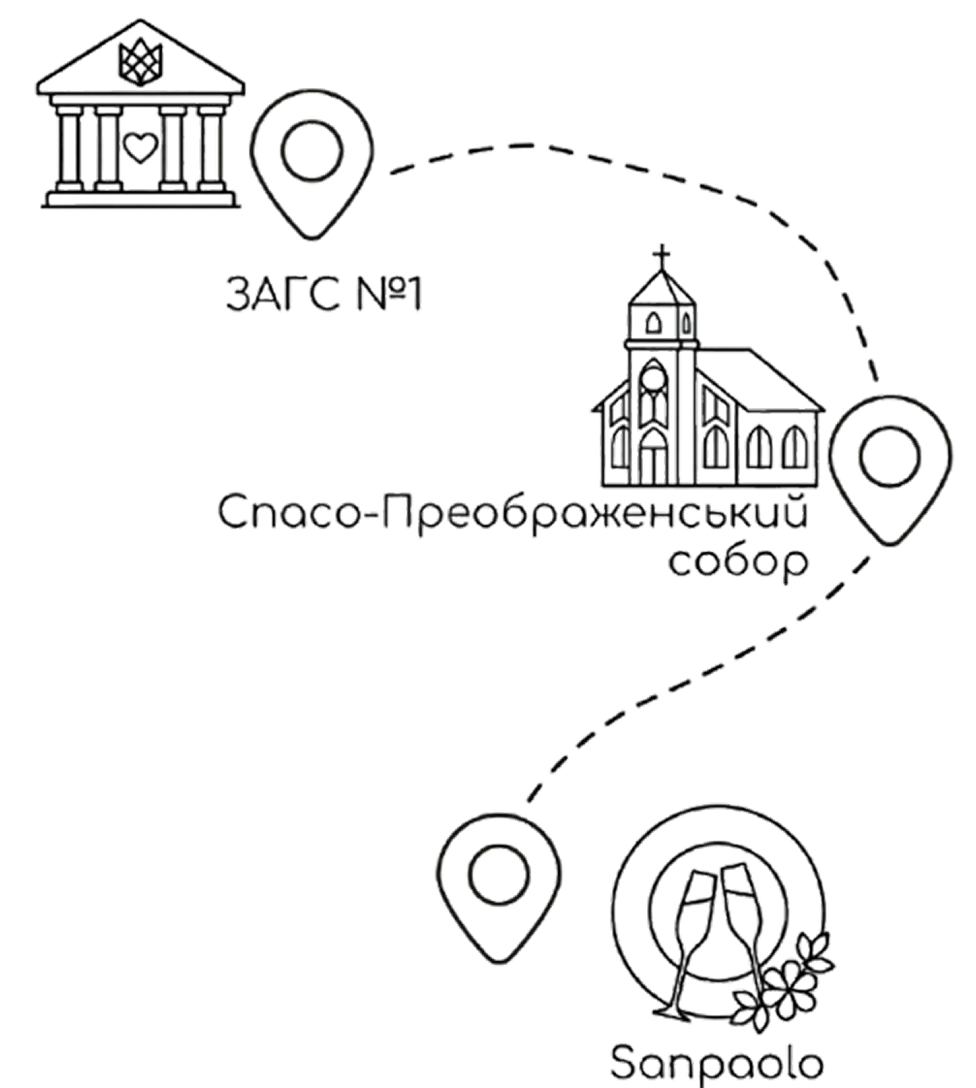
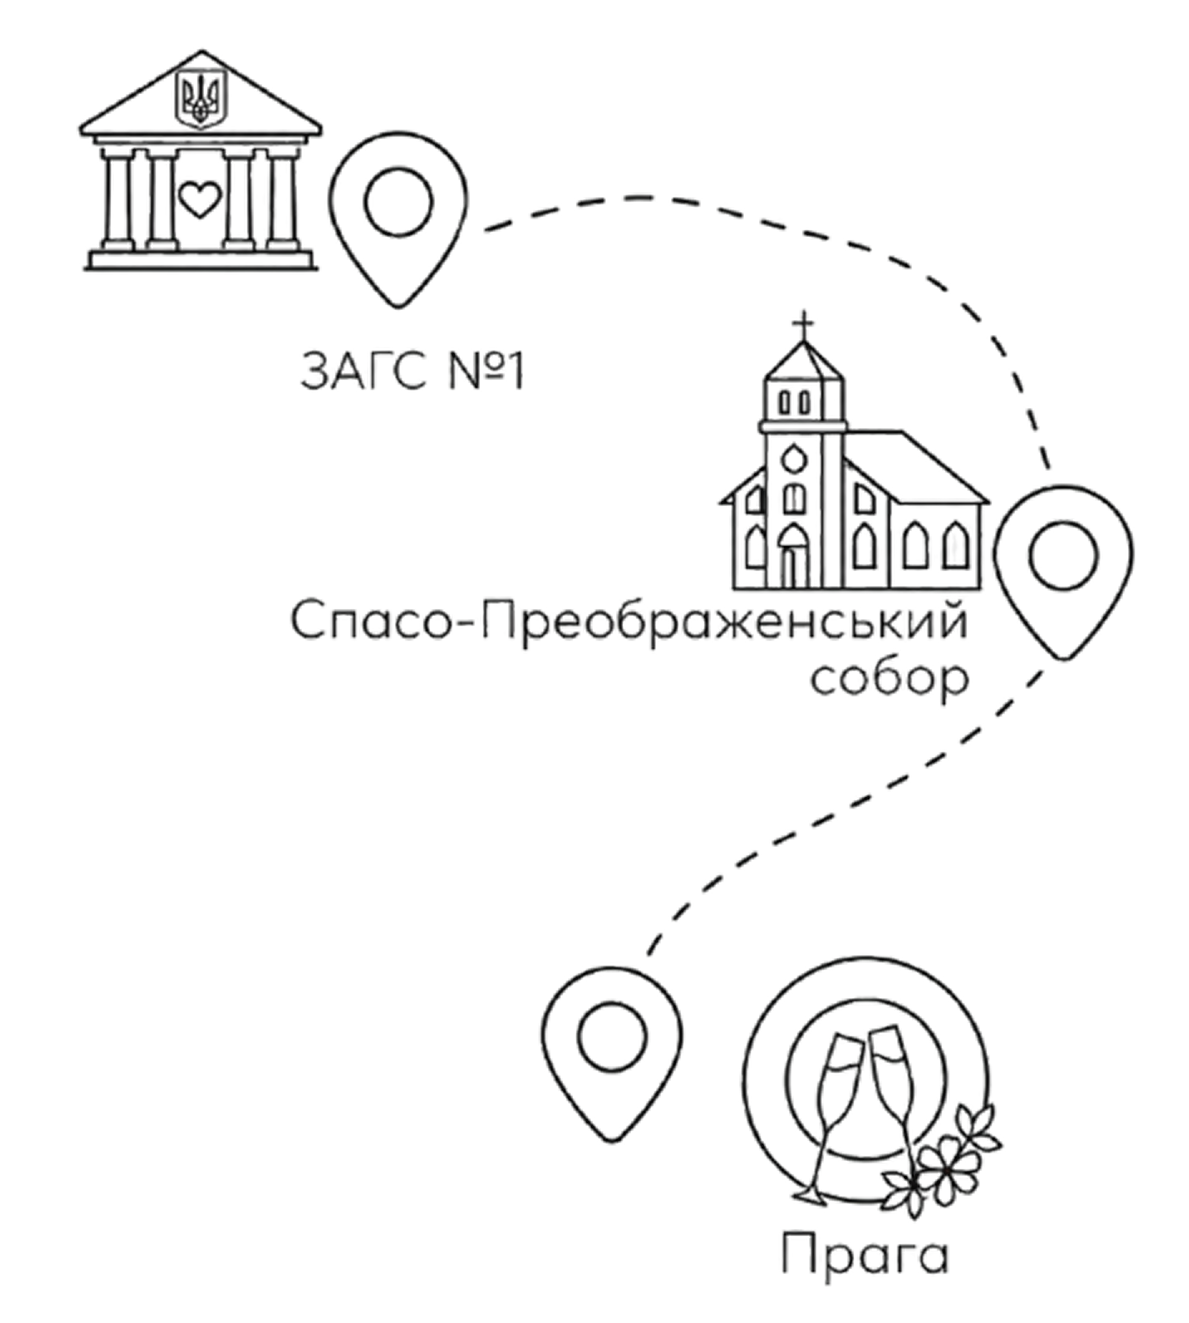
last deploy

diff --git a/frontend/src/components/quastions.js b/frontend/src/components/quastions.js
@@ -81,7 +81,7 @@ function Quastions() {
     return (
         <>
             <div ref={elementRef} className={`quastions_section ${isVisible ? 'visible' : ''}`}>
-                <h1 className="quastions_title">Просимо відповісти на декілька запитань, які ми підготували до 15 червня:</h1>
+                <h1 className="quastions_title">Просимо відповісти на декілька запитань, які ми підготували до 15 липня:</h1>
                 <div className="quastions_container">
                     <form onSubmit={handleSubmit}>
                         <div className="quastion_item">

diff --git a/frontend/src/components/timing.js b/frontend/src/components/timing.js
@@ -52,7 +52,7 @@ function Timing(){
                     <div className="timeline-content">
                         <div className="time">15:30</div>
                         <div className="label">Ресторан</div>
-                        <div className="address">Музейний провулок, 4</div>
+                        <div className="address">вулиця Георгія Гонгадзе, 5</div>
                     </div>
                 </div>
 

diff --git a/frontend/src/static/js/timer.js b/frontend/src/static/js/timer.js
@@ -32,6 +32,7 @@ const CountdownTimer = () => {
         }, 1000);
 
         return () => clearInterval(timer);
+    // eslint-disable-next-line react-hooks/exhaustive-deps
     }, []);
 
     useEffect(() => {
